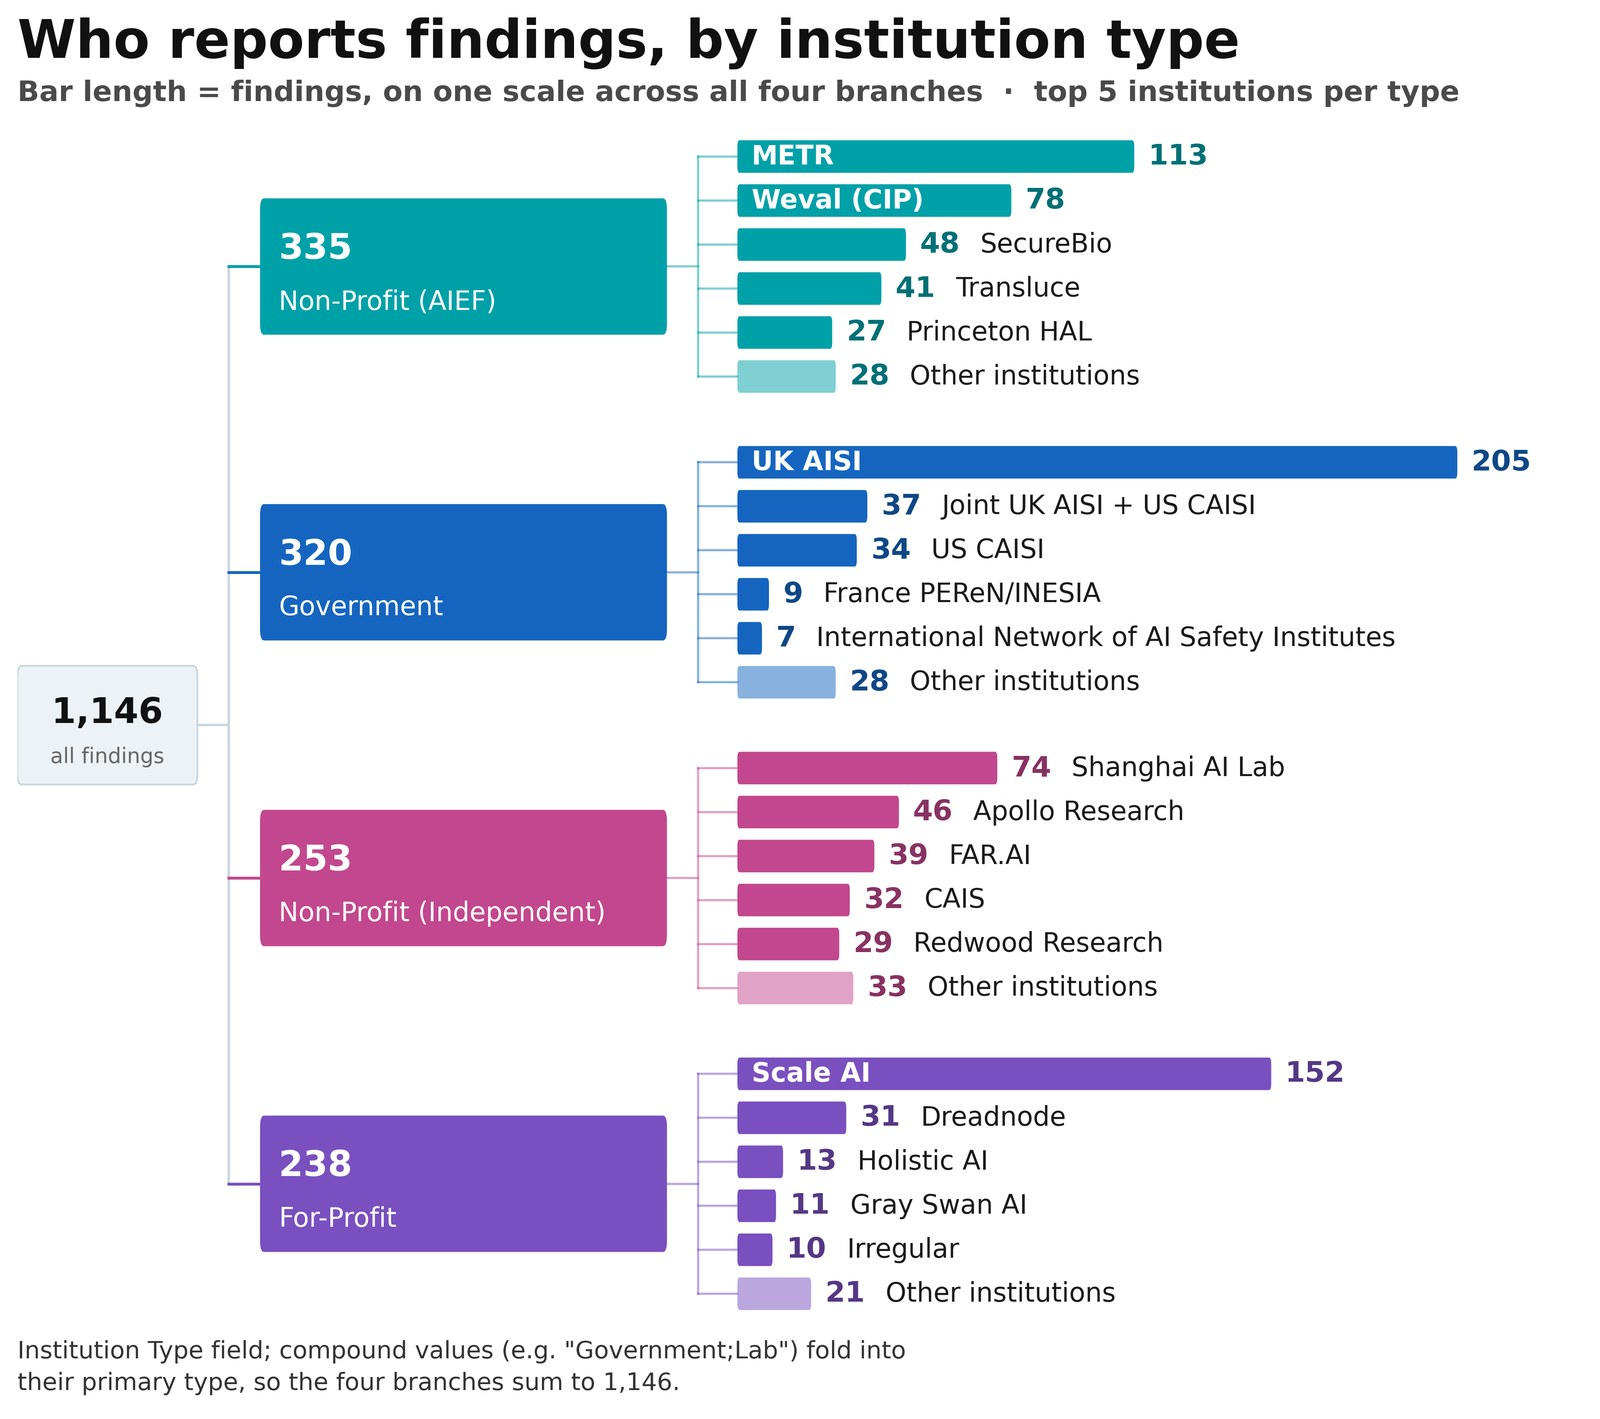
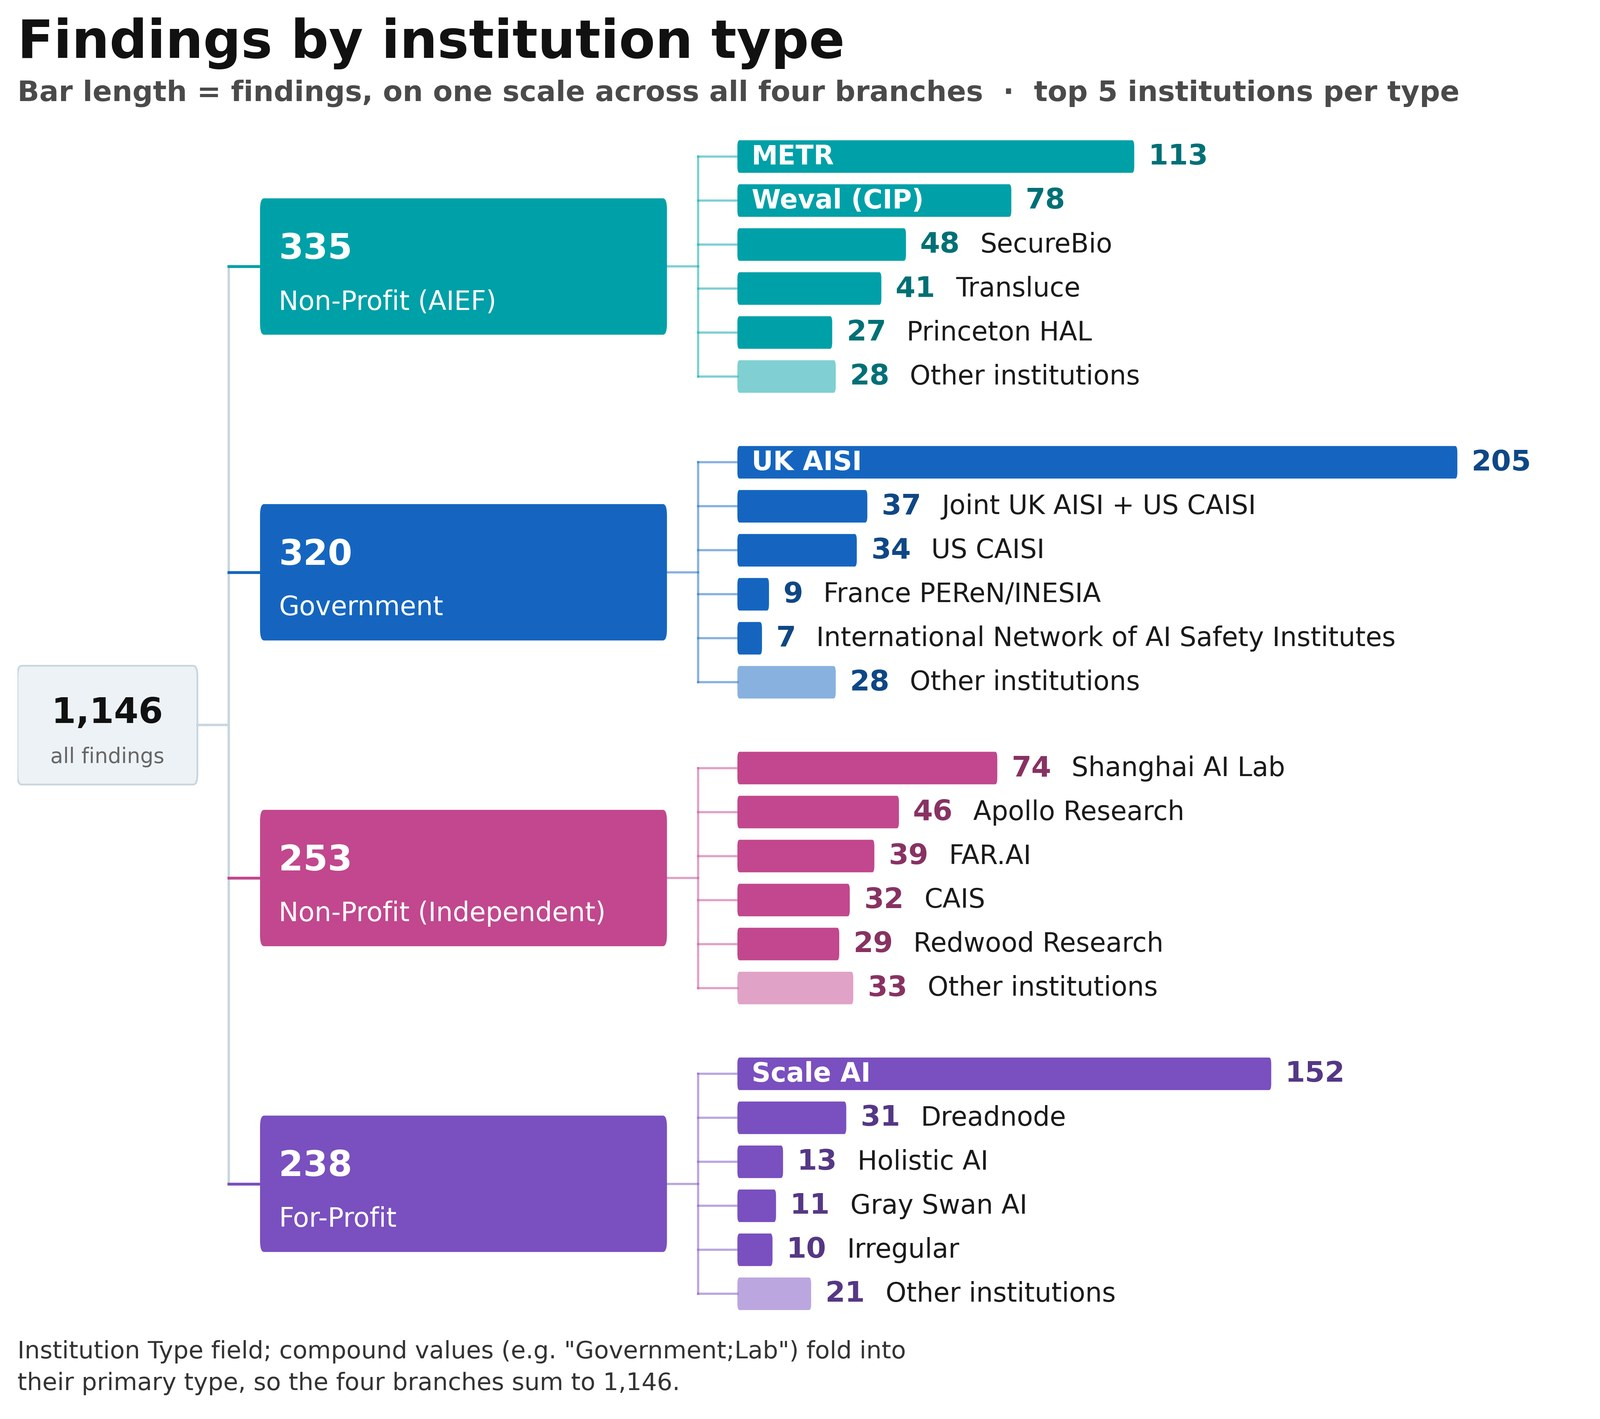
Retitle the institution-type tree
'Who reports findings, by institution type' becomes 'Findings by
institution type'. The subtitle already explains that bar length is
findings and that the four branches are the types, so the question form
was carrying no information the figure did not already give.

verify_charts PASS.

Changed region(s): [[0.0, 0.0, 0.7812, 0.062]]

diff --git a/research/scripts/tree.py b/research/scripts/tree.py
@@ -120,7 +120,7 @@ def text_w(s, fs, weight="normal"):
     return abs(inv.transform((bb.width, 0))[0] - inv.transform((0, 0))[0])
 
 
-ax.text(0, 0.80, "Who reports findings, by institution type",
+ax.text(0, 0.80, "Findings by institution type",
         fontsize=48, color="#111111", fontweight="bold", va="baseline", ha="left")
 # Kept short on purpose: a full sentence at this weight runs wider than the figure.
 ax.text(0, 1.78, f"Bar length = findings, on one scale across all four branches  ·  "
